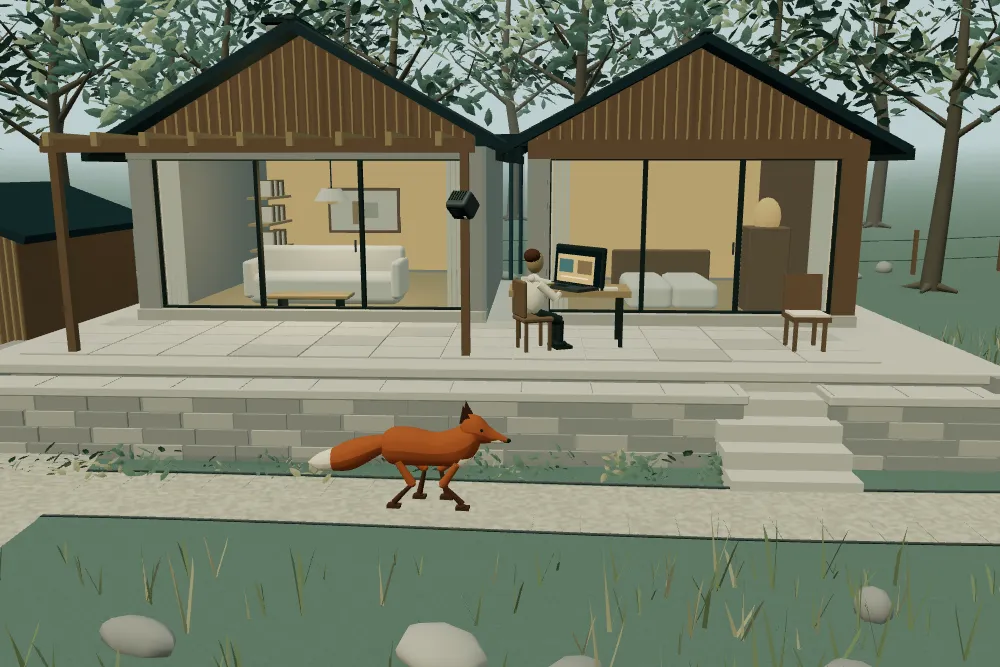
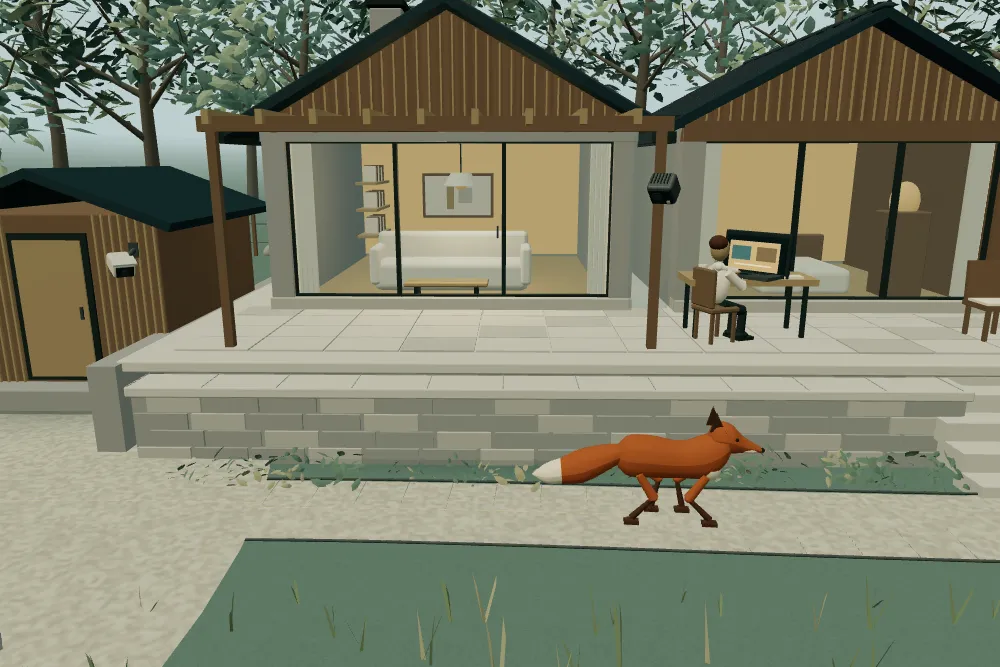
Make both estate stories play continuously
Replace cut camera chains with continuous PCHIP garden-side routes and readable
views of the crossing, console, barriers, guard and withdrawal. Give the primary
operator review seven authored seconds without a viewer advancement gate.
Preserve the accepted physical rigs and action timings.

Regenerate all twenty state captures and both posters for the current cameras.
Validate full automatic desktop/phone playback, rendered camera parity and route
clearance, native thermal labels, affected controls and fallback states, and the
production build. Private evidence retains failures and exact reuse boundaries.

Codex-Agent: tessure-s1
Codex-Session: 01a0d08e-c69d-79b0-a647-b5bc742b4da2

diff --git a/site/components/worlds/scenes/private-estate/content.ts b/site/components/worlds/scenes/private-estate/content.ts
@@ -7,31 +7,29 @@ const incident:ScenarioVariant={
  poster:'/worlds/private-estate/intrusion-poster.webp',posterAlt:'Illustrative perimeter intrusion at a woodland estate: an anonymous person crosses the lower stone boundary while the occupied residence and guarded inner approach remain visible.',
  lesson:'Protection is a sequence: observe the boundary crossing, corroborate it, secure the occupied threshold and send a person to check. The fictional intruder’s retreat is scripted; the sensors do not establish identity or compel an outcome.',
  establishing:{title:'An occupied home, two boundaries',body:'A resident moves beside the warm room. An unarmed guard is at the service shelter; the operator has a separate terrace console. The low stone perimeter and the inner stair gate protect different parts of this fictional home.'},
+ // One garden-side route: settle for each supported crossing and the physical
+ // console review, then travel outside the perimeter while the action continues.
  cameras:[
-  {at:0,position:[-17,8.5,23],target:[-2,1.8,4],mobilePosition:[-12,8,24],mobileTarget:[-2,1.8,4.5],fov:46,easing:'smoother'},
-  {at:T.detect,cut:true,position:[-9,3.7,12.5],target:[-4.4,1.2,8.5],mobilePosition:[-8.4,3.5,12.8],mobileTarget:[-4.4,1.2,8.5],fov:48},
-  {at:14.9,position:[-8.4,3.8,12.2],target:[-4.4,1.2,8.4],mobilePosition:[-8.4,3.5,12.8],mobileTarget:[-4.4,1.2,8.5],fov:48},
-  {at:T.verify,cut:true,position:[-1.8,5.3,15],target:[-2.3,1.8,5.8],mobilePosition:[-1.8,5.4,14.5],mobileTarget:[-2.3,1.9,5.8],fov:50},
-  {at:22.9,position:[-1.8,5.3,15],target:[-2.3,1.8,5.8],mobilePosition:[-1.8,5.4,14.5],mobileTarget:[-2.3,1.9,5.8],fov:50},
-  {at:T.correlate,cut:true,position:[-5,5.3,14],target:[-.5,1.7,4.5],mobilePosition:[-3,5,13],mobileTarget:[.6,1.85,4.5],fov:46},
-  {at:T.decide,cut:true,position:[-3.2,3.7,9],target:[1.65,1.9,2.05],mobilePosition:[-3.8,3.6,7],mobileTarget:[1.3,2.4,1.3],fov:46},
-  {at:35.8,position:[-3.2,3.7,9],target:[1.65,1.9,2.05],mobilePosition:[-3.8,3.6,7],mobileTarget:[1.3,2.4,1.3],fov:46},
-  {at:36,cut:true,position:[7.8,4.3,9.4],target:[3.55,1.5,1.9],mobilePosition:[7,4.1,9.3],mobileTarget:[3.65,1.15,2.2],fov:48},
-  {at:T.secured,cut:true,position:[-1,5.8,12],target:[2.4,1.4,4],mobilePosition:[-.3,5,11.5],mobileTarget:[2.4,1.5,4.3],fov:48},
-  {at:T.standoff,cut:true,position:[8.5,4.2,11],target:[2.6,1.3,4.8],mobilePosition:[7.5,3.9,11],mobileTarget:[2.6,1.3,4.8],fov:50},
-  {at:48,position:[8.5,4.2,11],target:[2.6,1.3,4.8],mobilePosition:[7.5,3.9,11],mobileTarget:[2.6,1.3,4.8],fov:50},
-  {at:56.9,position:[-9,5,14],target:[-3,1.3,7.5],mobilePosition:[-8,4.3,14],mobileTarget:[-3.5,1.4,7.6],fov:48},
-  {at:T.exitCross,cut:true,position:[-8.8,3.5,12.4],target:[-4.4,1.3,8.5],mobilePosition:[-8.4,3.5,12.8],mobileTarget:[-4.4,1.3,8.5],fov:48},
-  {at:65.9,position:[-8.8,3.5,12.4],target:[-4.4,1.3,8.5],mobilePosition:[-8.4,3.5,12.8],mobileTarget:[-4.4,1.3,8.5],fov:48},
-  {at:T.outside,cut:true,position:[-12,7,18],target:[-3,1.3,7],mobilePosition:[-11,6.5,18],mobileTarget:[-3,1.3,7],fov:48},
-  {at:T.inspected,cut:true,position:[-9,4,4.5],target:[-4.4,1.2,8.7],mobilePosition:[-8,3.4,4.5],mobileTarget:[-4.4,1.3,8.7],fov:50},
-  {at:T.end,position:[-14,7.5,20],target:[-1.5,1.7,5],mobilePosition:[-11,7,19],mobileTarget:[-2,1.8,5.8],fov:48},
+  {at:0,position:[-17,8.5,23],target:[-2,1.8,4],mobilePosition:[-12,8,24],mobileTarget:[-2,1.8,4.5],fov:46,interpolation:'pchip'},
+  {at:6,position:[-9,3.7,12.5],target:[-4.4,1.2,8.5],mobilePosition:[-8.4,3.5,12.8],mobileTarget:[-4.4,1.2,8.5],fov:48,interpolation:'pchip'},
+  {at:12,position:[-9,3.7,12.5],target:[-4.4,1.2,8.5],mobilePosition:[-8.4,3.5,12.8],mobileTarget:[-4.4,1.2,8.5],fov:48,interpolation:'pchip'},
+  {at:15,position:[-1.8,5.3,15],target:[-2.3,1.8,5.8],mobilePosition:[-1.8,5.4,14.5],mobileTarget:[-2.3,1.9,5.8],fov:50,interpolation:'pchip'},
+  {at:23,position:[-1.8,5.3,15],target:[-2.3,1.8,5.8],mobilePosition:[-1.8,5.4,14.5],mobileTarget:[-2.3,1.9,5.8],fov:50,interpolation:'pchip'},
+  {at:27,position:[-3.2,4.1,10.3],target:[2.1,1.9,1.9],mobilePosition:[-3.8,4.1,9.3],mobileTarget:[1.9,2,1.7],fov:46,interpolation:'pchip'},
+  {at:35.6,position:[-3.2,4.1,10.3],target:[2.1,1.9,1.9],mobilePosition:[-3.8,4.1,9.3],mobileTarget:[1.9,2,1.7],fov:46,interpolation:'pchip'},
+  {at:42,position:[8.5,4.2,11],target:[2.6,1.3,4.8],mobilePosition:[7.5,3.9,11],mobileTarget:[2.6,1.3,4.8],fov:50,interpolation:'pchip'},
+  {at:48,position:[8.5,4.2,11],target:[2.6,1.3,4.8],mobilePosition:[7.5,3.9,11],mobileTarget:[2.6,1.3,4.8],fov:50,interpolation:'pchip'},
+  {at:57,position:[-8.8,3.5,12.4],target:[-4.4,1.3,8.5],mobilePosition:[-8.4,3.5,12.8],mobileTarget:[-4.4,1.3,8.5],fov:48,interpolation:'pchip'},
+  {at:66,position:[-8.8,3.5,12.4],target:[-4.4,1.3,8.5],mobilePosition:[-8.4,3.5,12.8],mobileTarget:[-4.4,1.3,8.5],fov:48,interpolation:'pchip'},
+  {at:70,position:[-10,4.8,15],target:[-4.1,1.2,8.1],mobilePosition:[-9.5,4.5,15],mobileTarget:[-4.1,1.3,8.1],fov:48,interpolation:'pchip'},
+  {at:75,position:[-10,4.8,15],target:[-4.1,1.2,8.1],mobilePosition:[-9.5,4.5,15],mobileTarget:[-4.1,1.3,8.1],fov:48,interpolation:'pchip'},
+  {at:T.end,position:[-14,7.5,20],target:[-1.5,1.7,5],mobilePosition:[-11,7,19],mobileTarget:[-2,1.8,5.8],fov:48,interpolation:'pchip'},
  ],
  beats:[
   {id:'detect',at:T.detect,title:'A deliberate crossing of the stone perimeter',body:'The rust-clothed figure is the authored intruder in this red-team scenario. They put both hands on the coping, step onto the low wall and land inside. The fixed camera observes the exposed crossing; it does not infer intent from clothing.',evidence:[observed('Garden camera','A person approaches and crosses the visible stone boundary.'),uncertain('The adversarial role is fictional ground truth, not a sensor classification.')],subevents:[{id:'coping-contact',at:9,title:'Hands and feet on the boundary',body:'Both hands brace on the coping while the first foot is supported on top and the other remains outside. The perimeter zone indicator records the crossing area.',evidence:[observed('Perimeter zone','A local boundary-zone event accompanies the supported crossing.')]}]},
   {id:'verify',at:T.verify,title:'Two views corroborate one person inside',body:'The person has landed inside and walks toward the occupied terrace. The garden camera supplies shape and direction; the distinct terrace thermal contributes a labelled illustrative warm silhouette. No temperature or identity is assigned.',evidence:[observed('Garden camera','A human figure moves from the crossed wall toward the house.'),observed('Terrace thermal','Illustrative thermal-style view of the same person in the authored overlap; no temperatures.'),uncertain('Vegetation ends the depicted coverage. A hidden route is not a verified track.')]},
   {id:'correlate',at:T.correlate,title:'The crossing becomes a local operator alert',body:'Proposed on-site correlation joins the camera passage, warm silhouette and perimeter-zone event. Under the illustrated preauthorized policy, the path lights come on and the operator’s console displays the linked observations.',evidence:[correlation('Proposed local correlation','Camera + thermal + boundary-zone event form one proposed incident.'),response('Preauthorized path lighting','The four garden luminaires activate; the console alert becomes visible.')]},
-  {id:'decide',at:T.decide,title:'Protect the occupied threshold; send a person',body:'The operator reviews the three observations. The resident is still beside the open doorway; the inner gate is open and the guard remains at the shelter. The decision below authorizes the protective response.',evidence:[observed('Local operator','The linked alert is present at the modeled console.'),uncertain('Securing the threshold and sending the guard are proposed actions until the authored decision continues.')],action:'Secure the inner terrace and send the guard to observe'},
+  {id:'decide',at:T.decide-4,title:'Protect the occupied threshold; send a person',body:'At the console, the operator reviews the linked observations and chooses inner protection and guard observation. The resident and guard remain in place until the illustrated response begins.',evidence:[observed('Local operator','The linked alert is present at the modeled console.'),uncertain('The operator’s review is part of this authored sequence; it does not establish identity or guarantee the response outcome.')],action:'Secure the inner terrace and send the guard to observe'},
   {id:'respond',at:T.respond,title:'A resident clears the doorway',body:'After the human decision, the resident steps inside and away from the doorway. The operator reaches the modeled console control. Once the threshold is clear, the room shutter and inner stair gate close; the unarmed guard uses the protected service path.',evidence:[response('Human-authorized sequence','Resident clearance, console action, closure and guard observation follow the decision.')],subevents:[
    {id:'inner-held',at:T.secured,title:'The inner threshold is held',body:'The room shutter and stair gate are fully closed. The resident is clear of their swept paths. The garden path remains lit as the guard approaches behind the fixed service railing.',evidence:[observed('Inner protection','Both mechanisms visibly reach their closed stops; the occupied room remains behind the shutter.'),response('Guard route','The guard stays on the home side of the service railing.')]},
    {id:'warning',at:45,title:'An unarmed warning at a standoff',body:'The intruder reaches the held stair gate. The guard stops on the protected service path and raises an open hand. They remain separated; there is no contact or arrest.',evidence:[observed('Guard observation','A person stands at the closed inner approach.'),response('Unarmed guard','A visible open-hand warning from a fixed standoff.')]},

diff --git a/site/components/worlds/scenes/private-estate/wildlife-content.ts b/site/components/worlds/scenes/private-estate/wildlife-content.ts
@@ -20,18 +20,19 @@ const legacy: import('../../contract').StoryTimeline & Record<string, unknown> =
     exposure: 1.05, toneMapping: 'aces',
     shadowBounds: { left: -24, right: 24, top: 22, bottom: -20, near: 1, far: 70, bias: -0.00018, normalBias: 0.025, mapSize: 2048 },
   },
+  // Follow the garden passage, settle beside the console for its review/contact,
+  // then pull back with the departing animal. No stage changes the shot abruptly.
   cameras: [
-    { at: 0, position: [-17, 7, 22], target: [-0.9, 2.0, -0.2], mobilePosition: [-11, 6.2, 23], mobileTarget: [-2, 2.0, 0.8], fov: 42, easing: 'smoother', interpolation: 'spline' },
-    { at: 4, position: [-11,4.4,13], target: [-5.5,1.7,2.4], mobilePosition: [-8.3,3.2,9.4], mobileTarget: [-6.5,1.4,3.1], fov: 46, easing: 'smooth', interpolation: 'spline' },
-    { at: 10.9, position: [-9.5, 4.5, 15], target: [-1, 1.5, 0.8], mobilePosition: [-6.5, 4.5, 17], mobileTarget: [-1.6, 1.5, 1.7], fov: 42 },
-    { at: 11, position: [-1.0,3.8,12], target: [-1.6,1.7,3.0], mobilePosition: [-1.8,3.7,11.5], mobileTarget: [-2.1,1.7,3.2], fov: 50, cut: true, easing: 'linear', interpolation: 'spline' },
-    { at: 17.9, position: [-1.0,3.8,12], target: [-1.6,1.7,3.0], mobilePosition: [-1.8,3.7,11.5], mobileTarget: [-2.1,1.7,3.2], fov: 50 },
-    { at: 18, cut: true, position: [3.6, 4.5, 15], target: [0.5, 1.8, 1.8], mobilePosition: [1, 3.8, 13.4], mobileTarget: [0.5, 1.65, 2.6], fov: 44, easing: 'smoother', interpolation: 'spline' },
-    { at: 24.9, position: [5, 4.2, 13], target: [2.2, 1.5, 2.8], mobilePosition: [3, 4.2, 13.8], mobileTarget: [2.1, 1.65, 2.7], fov: 44 },
-    { at: 25, position: [-3.2,3.5,10.2], target: [1.65,1.7,2.65], mobilePosition: [-1.8,3.3,10.5], mobileTarget: [1.65,1.3,2.8], fov: 46, cut: true, easing: 'smooth', interpolation: 'spline' },
-    { at: 33, position: [0,3.8,12.3], target: [3,1.65,2.7], mobilePosition: [1,3.9,12.4], mobileTarget: [3.6,1.3,2.7], fov: 46, easing: 'smoother', interpolation: 'spline' },
-    { at: 40, position: [15, 7.3, 22], target: [2.8, 2, 0.2], mobilePosition: [10, 6.5, 21], mobileTarget: [3.3, 1.9, 1.7], fov: 43, easing: 'smoother', interpolation: 'spline' },
-    { at: 46, position: [16, 7.6, 23], target: [3, 2, 0.3], mobilePosition: [13, 6.3, 22], mobileTarget: [6, 1.8, 1.7], fov: 43 },
+    {at:0,position:[-17,7,22],target:[-.9,2,-.2],mobilePosition:[-11,6.2,23],mobileTarget:[-2,2,.8],fov:42,interpolation:'pchip'},
+    {at:4,position:[-11,4.4,13],target:[-5.5,1.7,2.4],mobilePosition:[-8.3,3.2,9.4],mobileTarget:[-6.5,1.4,3.1],fov:46,interpolation:'pchip'},
+    {at:7,position:[-10,4.2,13],target:[-4.2,1.5,2.8],mobilePosition:[-7.7,3.7,11],mobileTarget:[-4.4,1.5,3],fov:48,interpolation:'pchip'},
+    {at:11,position:[-1,3.8,12],target:[-1.6,1.7,3],mobilePosition:[-1.8,3.7,11.5],mobileTarget:[-2.1,1.7,3.2],fov:50,interpolation:'pchip'},
+    {at:17,position:[-1,3.8,12],target:[-1.6,1.7,3],mobilePosition:[-1.8,3.7,11.5],mobileTarget:[-2.1,1.7,3.2],fov:50,interpolation:'pchip'},
+    {at:25,position:[-3.2,3.5,10.2],target:[1.65,1.7,2.65],mobilePosition:[-1.8,3.3,10.5],mobileTarget:[1.65,1.3,2.8],fov:46,interpolation:'pchip'},
+    {at:32,position:[-3.2,3.5,10.2],target:[1.65,1.7,2.65],mobilePosition:[-1.8,3.3,10.5],mobileTarget:[1.65,1.3,2.8],fov:46,interpolation:'pchip'},
+    {at:37,position:[4,4.8,15],target:[3.2,1.8,2.2],mobilePosition:[4,4.4,15],mobileTarget:[4.6,1.7,2.3],fov:45,interpolation:'pchip'},
+    {at:43,position:[15,7.3,22],target:[2.8,2,.2],mobilePosition:[10,6.5,21],mobileTarget:[5.1,1.9,1.7],fov:43,interpolation:'pchip'},
+    {at:46,position:[16,7.6,23],target:[3,2,.3],mobilePosition:[13,6.3,22],mobileTarget:[6,1.8,1.7],fov:43,interpolation:'pchip'},
   ],
   beats: [
     { id: 'detect', at: 4, title: 'Something along the garden edge', body: 'The outbuilding camera picks up movement beside the planting. One partial view is not yet a reason to disturb the household.', evidence: [{ source: 'Garden camera', detail: 'A fixed, outward-facing camera observes movement on the gravel approach.' }] },
